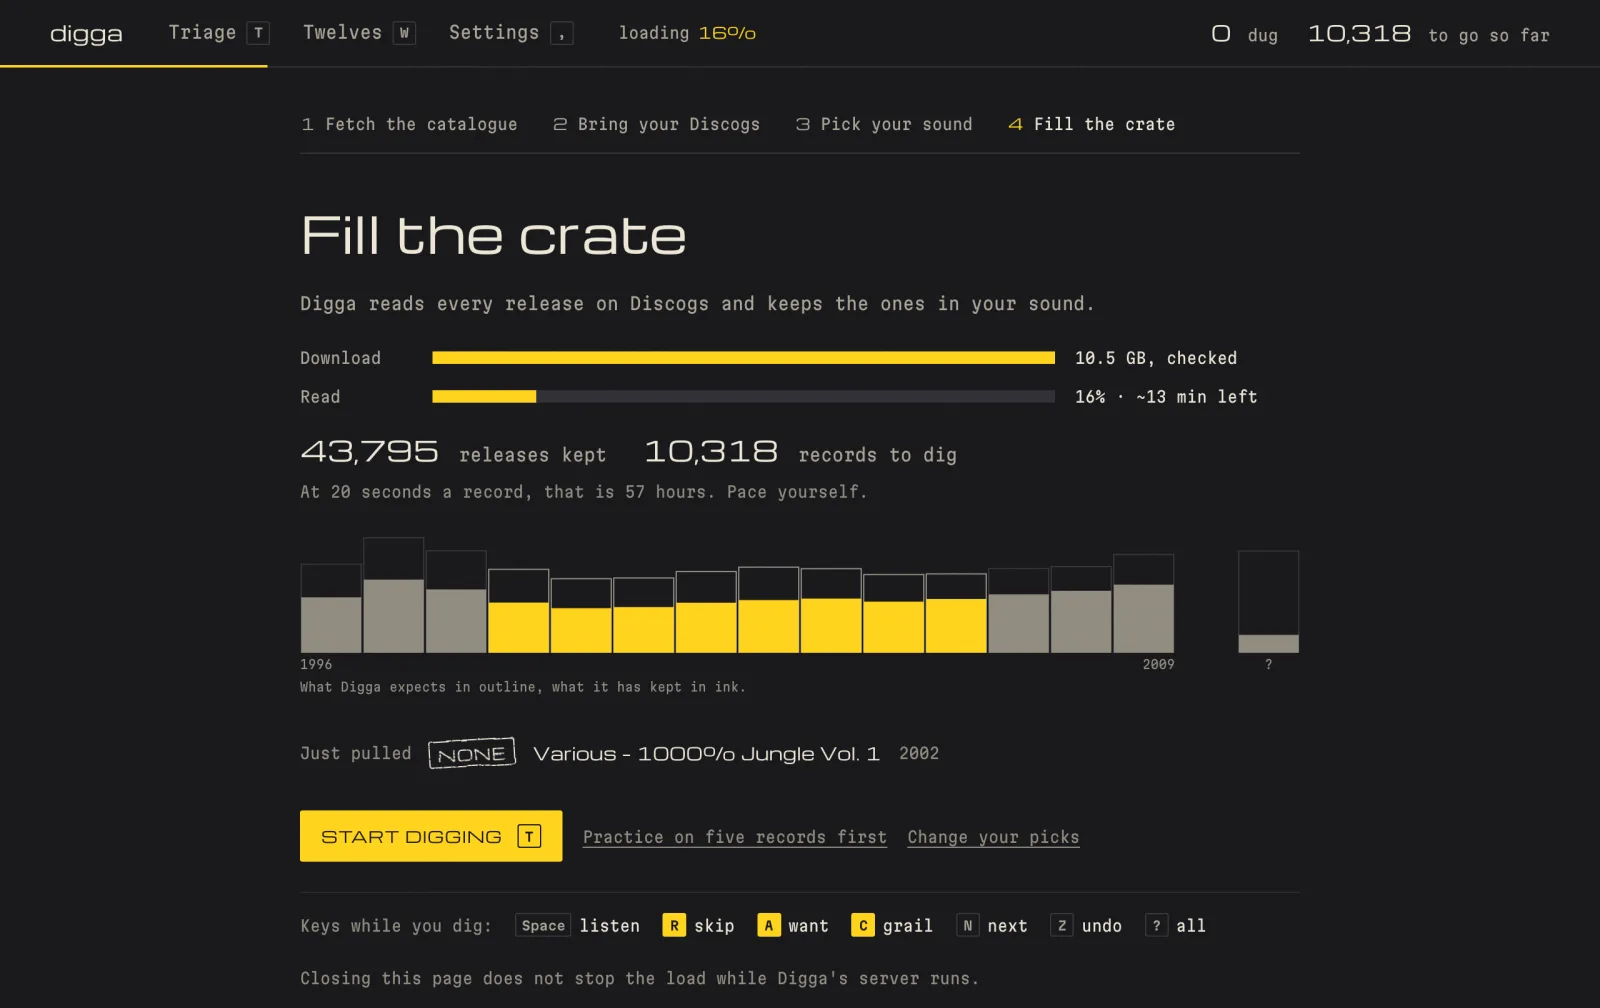
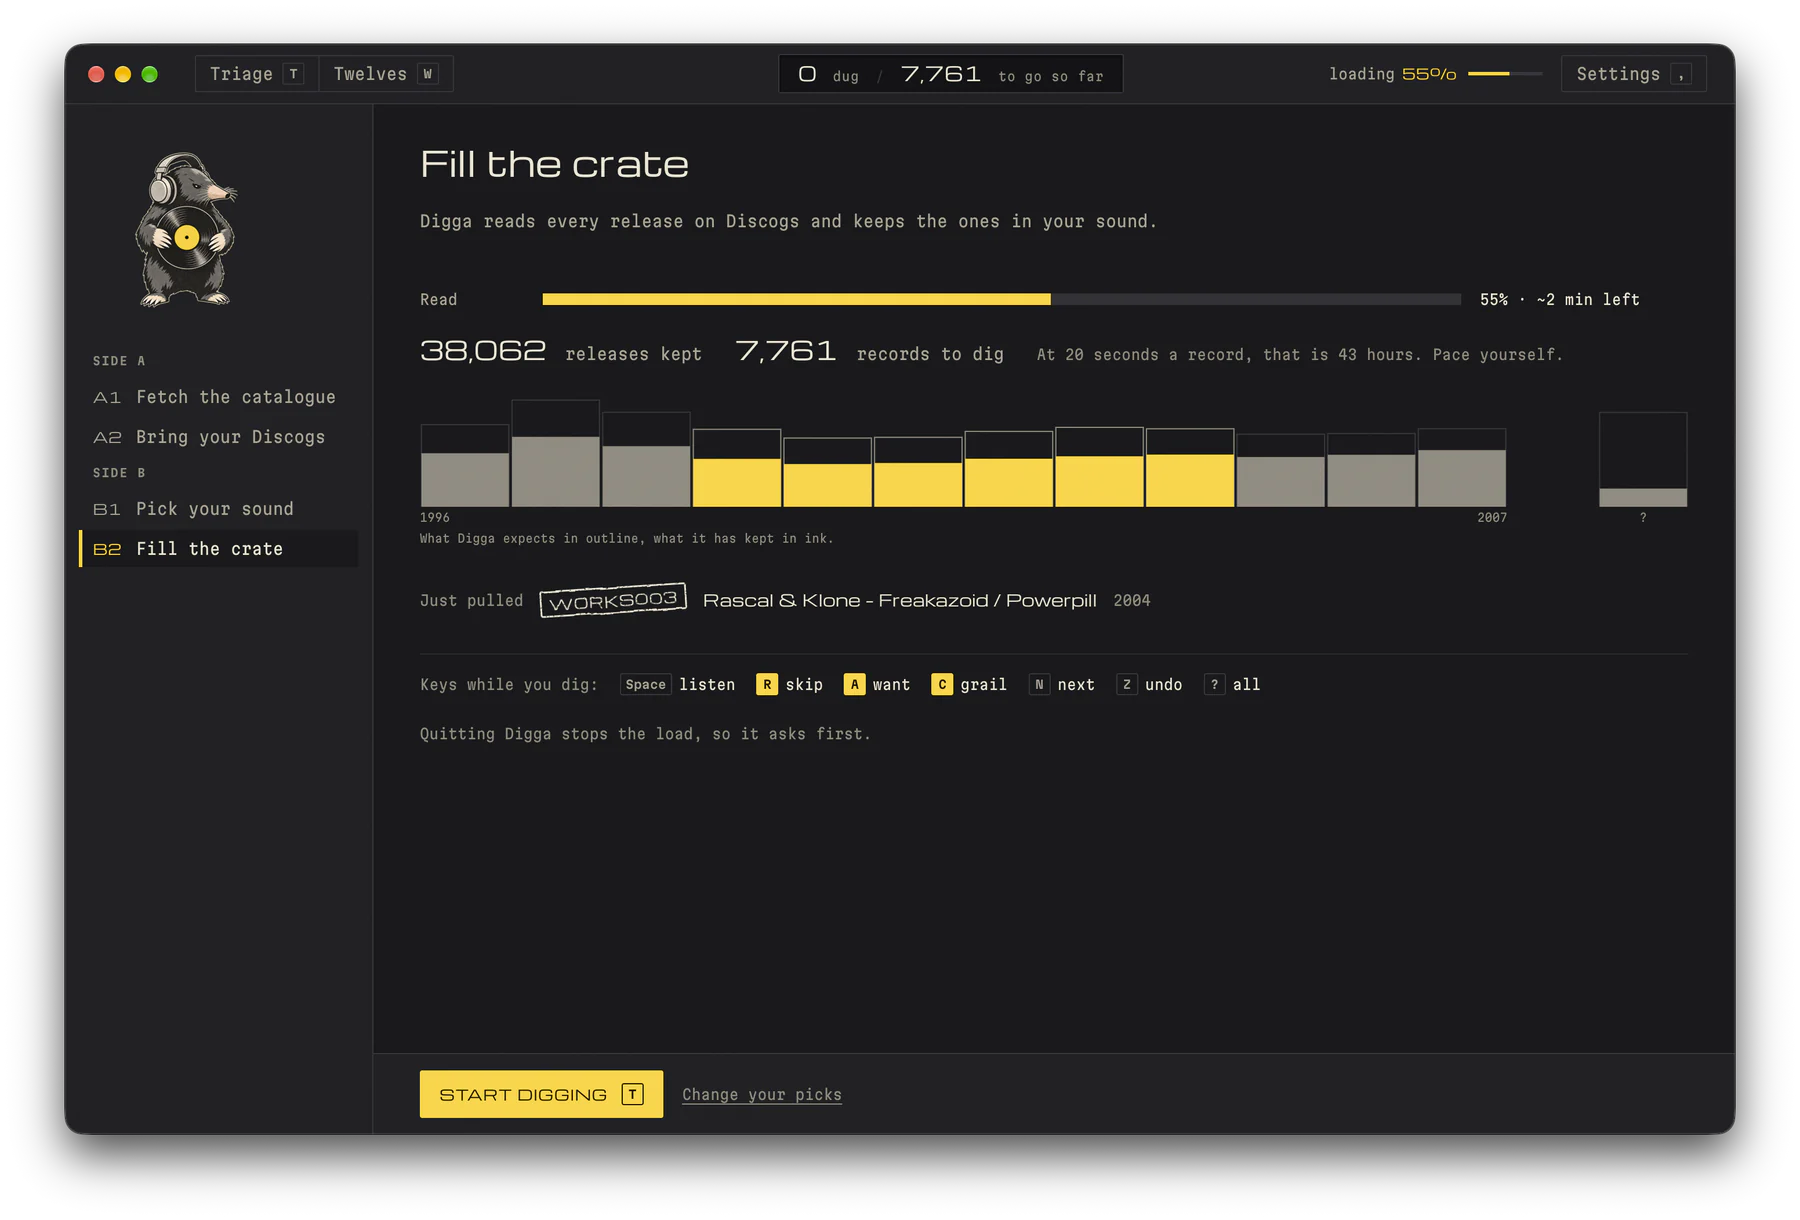
Show the app window in the README screenshots

diff --git a/README.md b/README.md
@@ -27,7 +27,7 @@ through, at a position you choose, and the next track and the next release are p
 listen. Mark a
 record as a want, skip it, flag a grail, or leave it for later. Undo walks back through your session.
 
-![Triage: The Code by Absolute Zero + Subphonics on Renegade Hardware playing, its tracklist and other videos beside the player, the last verdict on the slip, and the verdict keys along the bottom](docs/assets/screenshots/triage.webp)
+![Triage in the Digga window on macOS, digging the label Moving Shadow: the compilation Trans-Central Connection II playing Neil Trix's Zero Transfer, its tracklist with the track heard before marked, the last verdict on the slip, the next record buffered, and the verdict keys along the bottom](docs/assets/screenshots/triage.webp)
 
 | Key       | Action                                                  |
 | --------- | ------------------------------------------------------- |
@@ -55,7 +55,7 @@ and collection. Filter and sort the shelves, add notes, change a verdict, or ret
 records for another listen. The Tracks shelf lists every track you marked grail or keep, with a
 note of its own.
 
-![Twelves: the shelves, then records with their stamps: a grail with its note and price, a snoozed record, and records from the Discogs wantlist and collection](docs/assets/screenshots/twelves.webp)
+![Twelves sorted by artist: the shelves with their counts in a sidebar, and records with their stamps: wants with their prices, maybes, records from the Discogs wantlist, and three Rascal & Klone twelves from the collection](docs/assets/screenshots/twelves.webp)
 
 With your Discogs account configured, `A` and `C` add a record to your Discogs
 wantlist, with the tracks you marked and your note as the want's note. A grail stays a grail in
@@ -71,16 +71,17 @@ back. Sweep label by label in catalogue order,
 browse by country or year, or use a daily shuffle. Set where playback starts and how far
 the seek keys jump.
 
-![Settings on its Digging tab: years, formats, countries, format details, hidden labels and what to skip, beside the list of tabs](docs/assets/screenshots/settings.webp)
+![Settings on its Digging tab: years, formats, countries, format details, hidden labels, what to skip and how many records the filters match, beside the list of tabs](docs/assets/screenshots/settings.webp)
 
 Imports of your collection and wantlist can keep records you already know out of the queue. The session counter shows how many you have judged, how many remain, and an estimated
 time to finish once you have a listening pace.
 
 ## What stays local
 
-Digga runs on your computer and opens in a browser. The catalogue and saved listening decisions
-live in a local SQLite database. Playback uses YouTube, and account imports, fresh release data,
-and wantlist updates use Discogs, so those features need an internet connection.
+Digga runs on your computer, in a window of its own on macOS or in a browser. The catalogue and
+saved listening decisions live in a local SQLite database. Playback uses YouTube, and account
+imports, fresh release data, and wantlist updates use Discogs, so those features need an internet
+connection.
 
 Verdicts, notes, track marks, and listens are saved from the first one. `Z` undoes the last
 verdict, and takes a want back off your Discogs wantlist; Twelves lets you judge a record again.
@@ -168,9 +169,9 @@ A new library opens the setup, which takes about 20 minutes, most of it waiting:
    styles and years. It takes 15 to 20 minutes, but records arrive from the first seconds:
    "Start digging" lights up once 500 wait, and the header shows the load while you dig.
 
-![The setup's Pick your sound step: a style suggested from the Discogs wantlist, a style search, the years over a histogram of their releases, and an estimate of the library's size](docs/assets/screenshots/setup-sound.webp)
+![The setup's Pick your sound step beside its four steps: Drum n Bass picked from the Discogs collection and wantlist, a style search, and the years over a histogram of their releases](docs/assets/screenshots/setup-sound.webp)
 
-![The setup's Fill the crate step: the download and the read, the releases kept so far and the records to dig, the years filling in, and Start digging](docs/assets/screenshots/setup-crate.webp)
+![The setup's Fill the crate step: the read, the releases kept so far and the records to dig, the years filling in, the record just pulled, and Start digging while the load runs](docs/assets/screenshots/setup-crate.webp)
 
 Start digging digs for real, so your verdicts are kept from the first one.
 
